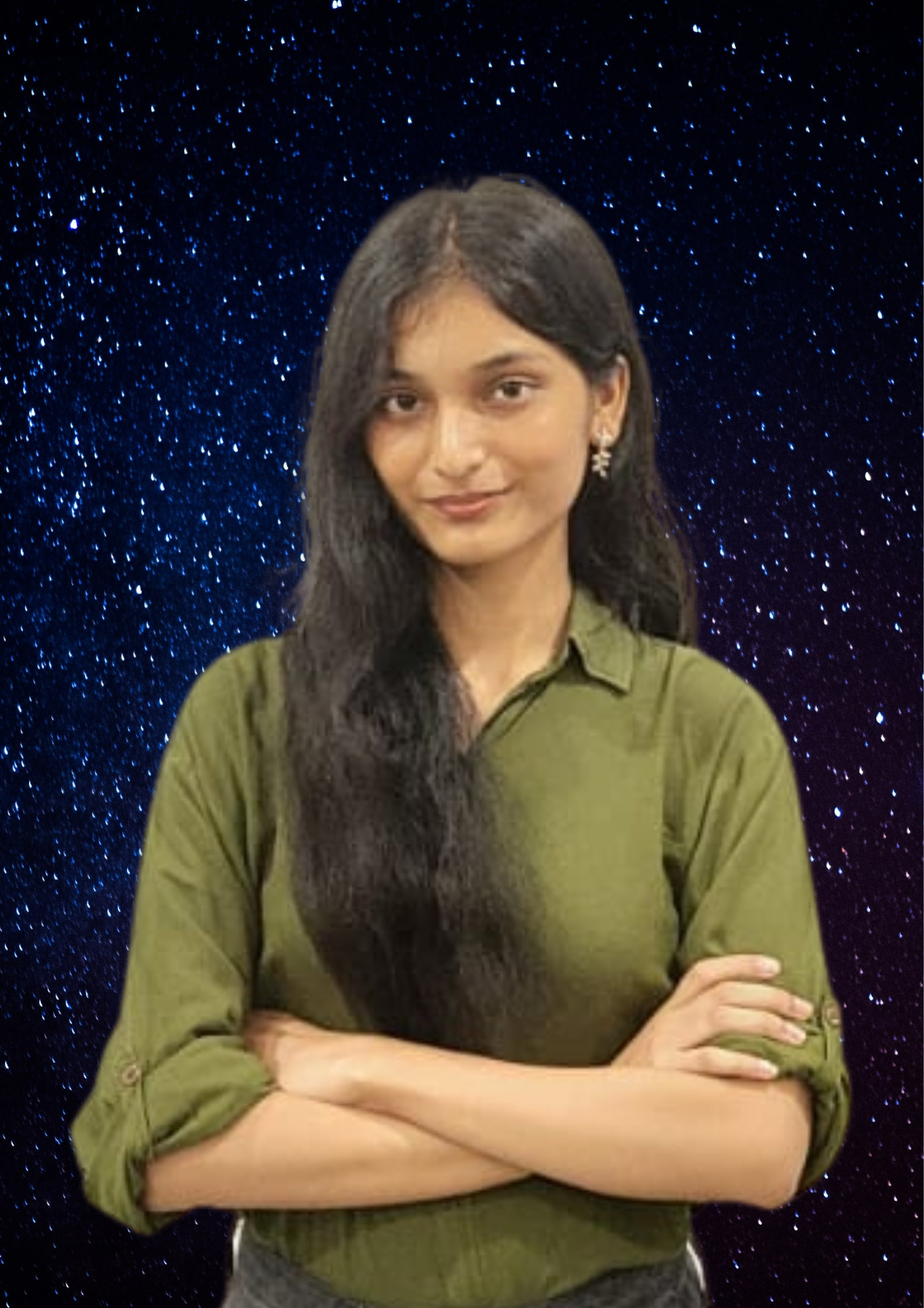
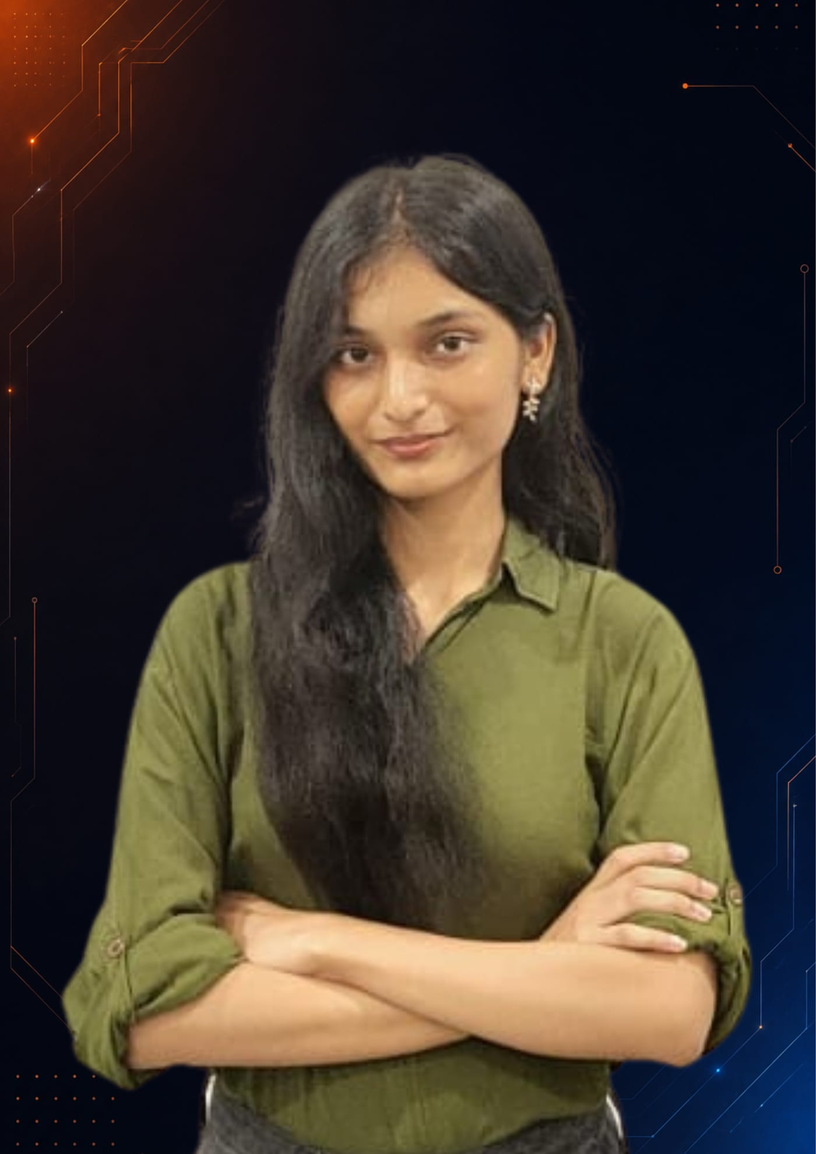
feat(community): more member photos

diff --git a/lib/data.ts b/lib/data.ts
@@ -122,7 +122,7 @@ const facultyMentorEntry = member(
 );
 
 export const faculty: TeamMember[] = [
-  member("fac-coordinator", "Faculty Coordinator", "Dr. Supriya Bhuran", { linkedin: "https://www.linkedin.com/in/dr-supriya-bhuran-yadav-2899211a/" }),
+  member("fac-coordinator", "Faculty Coordinator", "Dr. Supriya Bhuran", { photo: "/team/supriya-bhuran.jpg", linkedin: "https://www.linkedin.com/in/dr-supriya-bhuran-yadav-2899211a/" }),
 ];
 
 /** The mentor's note, shown beside the principal's. Same shape as `principal`. */
@@ -139,16 +139,16 @@ export const facultyMentor = {
 };
 
 export const core: TeamMember[] = [
-  member("core-president", "President", "Yash Patil", { linkedin: "https://www.linkedin.com/in/yash-v-patil/" }),
-  member("core-vp", "Vice President", "Jyotiraditya Patil", { linkedin: "https://www.linkedin.com/in/jyotiraditya-patil-73b394274/" }),
-  member("core-treasurer", "Treasurer", "Arya Bhagwat", { linkedin: "https://www.linkedin.com/in/arya-bhagwat-08653334b/" }),
-  member("core-gen-sec", "General Secretary", "Harsh Watkar", { linkedin: "https://www.linkedin.com/in/harsh-watkar-00105a346/" }),
-  member("core-ceo", "Chief Event Organizer", "Janhavi Patankar", { linkedin: "https://www.linkedin.com/in/janhavi-patankar-264292397/" }),
+  member("core-president", "President", "Yash Patil", { photo: "/team/yash-patil.jpg", linkedin: "https://www.linkedin.com/in/yash-v-patil/" }),
+  member("core-vp", "Vice President", "Jyotiraditya Patil", { photo: "/team/jyotiraditya-patil.jpg", linkedin: "https://www.linkedin.com/in/jyotiraditya-patil-73b394274/" }),
+  member("core-treasurer", "Treasurer", "Arya Bhagwat", { photo: "/team/arya-bhagwat.jpg", linkedin: "https://www.linkedin.com/in/arya-bhagwat-08653334b/" }),
+  member("core-gen-sec", "General Secretary", "Harsh Watkar", { photo: "/team/harsh-watkar.jpg", linkedin: "https://www.linkedin.com/in/harsh-watkar-00105a346/" }),
+  member("core-ceo", "Chief Event Organizer", "Janhavi Patankar", { photo: "/team/janhavi-patankar.jpg", linkedin: "https://www.linkedin.com/in/janhavi-patankar-264292397/" }),
 ];
 
 export const subCore: TeamMember[] = [
-  member("sub-pro", "Public Relations Officer", "Suhani Guralwar", { linkedin: "https://www.linkedin.com/in/suhani-guralwar-b43807421/" }),
-  member("sub-sponsorship", "Sponsorship Officer", "Suhas Dongre", { linkedin: "https://www.linkedin.com/in/suhasdongre/" }),
+  member("sub-pro", "Public Relations Officer", "Suhani Guralwar", { photo: "/team/suhani-guralwar.jpg", linkedin: "https://www.linkedin.com/in/suhani-guralwar-b43807421/" }),
+  member("sub-sponsorship", "Sponsorship Officer", "Suhas Dongre", { photo: "/team/suhas-dongre.jpg", linkedin: "https://www.linkedin.com/in/suhasdongre/" }),
   member("sub-cto", "Chief Technical Officer", "Chris Misquitta", { technical: true, linkedin: "https://www.linkedin.com/in/chrismm31313/", github: "https://github.com/CMM31313" }),
 ];
 
@@ -170,7 +170,7 @@ export const jointCore: JointCoreDomain[] = [
     domain: "Editorial",
     members: [
       member("jc-edit-1", "Historian", "Keyur Kulkarni", { photo: "/team/keyur-kulkarni.jpg", linkedin: "https://www.linkedin.com/in/keyur-anand-kulkarni-b89508333/" }),
-      member("jc-edit-2", "Historian", "Aadya Bharde"),
+      member("jc-edit-2", "Historian", "Aadya Bharde", { photo: "/team/aadya-bharde.jpg" }),
     ],
   },
   {
@@ -184,27 +184,28 @@ export const jointCore: JointCoreDomain[] = [
   {
     domain: "Administration",
     members: [
-      member("jc-admin-1", "Administration Head", "Ayan Varekar", { linkedin: "https://www.linkedin.com/in/ayanvarekar/" }),
-      member("jc-admin-2", "Administration Co-head", "Atharv Gharat", { linkedin: "https://www.linkedin.com/in/atharva-gharat-b12a6b306/" }),
-      member("jc-admin-3", "Administration Co-head", "Atharv Bhoir", { technical: true, photo: "/team/atharv-bhoir.jpg", linkedin: "https://www.linkedin.com/in/atharv-bhoir-800352388", github: "https://github.com/AtharvKB" }),
+      member("jc-admin-1", "Administration Head", "Ayan Varekar", { photo: "/team/ayan-varekar.jpg", linkedin: "https://www.linkedin.com/in/ayanvarekar/" }),
+      // member("jc-admin-3", "Administration Co-head", "Atharv Gharat", { linkedin: "https://www.linkedin.com/in/atharva-gharat-b12a6b306/" }),
+      member("jc-admin-2", "Administration Co-head", "Atharv Bhoir", { technical: true, photo: "/team/atharv-bhoir.jpg", linkedin: "https://www.linkedin.com/in/atharv-bhoir-800352388", github: "https://github.com/AtharvKB" }),
     ],
   },
   {
     domain: "Creativity",
     members: [
-      member("jc-create-1", "Creativity Head", "Yahya Dongarkar"),
+      member("jc-create-1", "Creativity Head", "Yahya Dongarkar", { photo: "/team/yahya-dongarkar.jpg" }),
       member("jc-create-2", "Creativity Co-head", "Vaibhavi Patil", { photo: "/team/vaibhavi-patil.jpg", linkedin: "https://www.linkedin.com/in/vaibhavi-patil-836b1a382" }),
       member("jc-create-3", "Creativity Co-head", "Shriya Dalvi", { photo: "/team/shriya-dalvi.jpg" }),
-      member("jc-create-4", "Creativity Co-head", "Angel Bari", { linkedin: "https://www.linkedin.com/in/angel-bari-75441b300/" }),
+      member("jc-create-4", "Creativity Co-head", "Angel Bari", { photo: "/team/angel-bari.jpg", linkedin: "https://www.linkedin.com/in/angel-bari-75441b300/" }),
+      member("jc-create-5", "Creativity Co-head", "Tanmayi Rathod", { photo: "/team/tanmayi-rathod.jpg" }),
     ],
   },
   {
     domain: "Media",
     members: [
-      member("jc-media-1", "Media Head", "Mazen Zari", { linkedin: "https://www.linkedin.com/in/mazen-ejaj-zari-63968b243" }),
+      member("jc-media-1", "Media Head", "Mazen Zari", { photo: "/team/mazen-zari.jpg", linkedin: "https://www.linkedin.com/in/mazen-ejaj-zari-63968b243" }),
       member("jc-media-2", "Media Co-head", "Sayan Dutta", { photo: "/team/sayan-dutta.jpg" }),
-      member("jc-media-3", "Media Co-head", "Vishesh Karot", { linkedin: "https://www.linkedin.com/in/vishesh-karoth-0061273aa/" }),
-      member("jc-media-4", "Media Co-head", "Mayuri Varti"),
+      member("jc-media-3", "Media Co-head", "Vishesh Karot", { photo: "/team/vishesh-karot.jpg", linkedin: "https://www.linkedin.com/in/vishesh-karoth-0061273aa/" }),
+      member("jc-media-4", "Media Co-head", "Mayuri Varti", { photo: "/team/mayuri-varti.jpg" }),
     ],
   },
 ];
